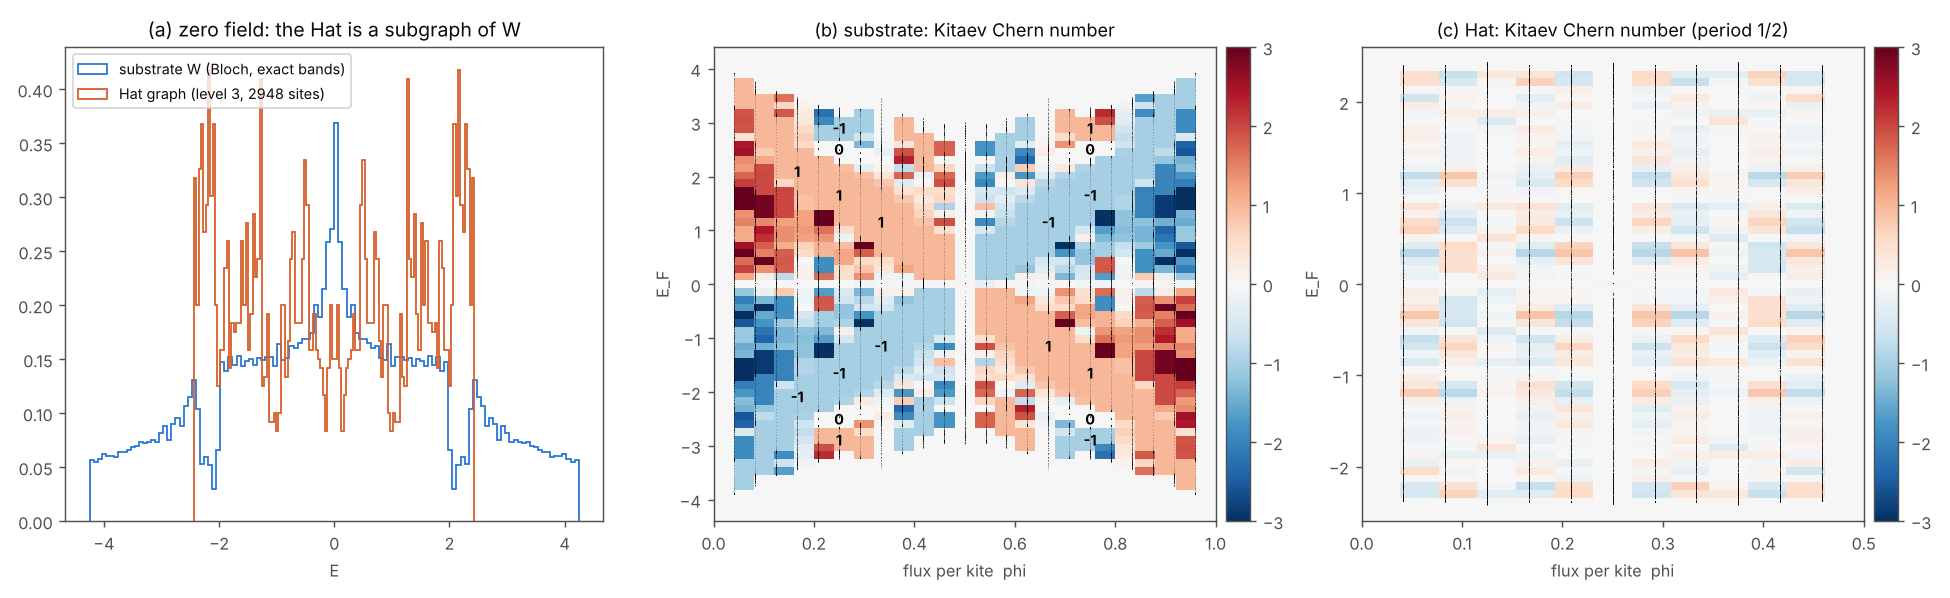
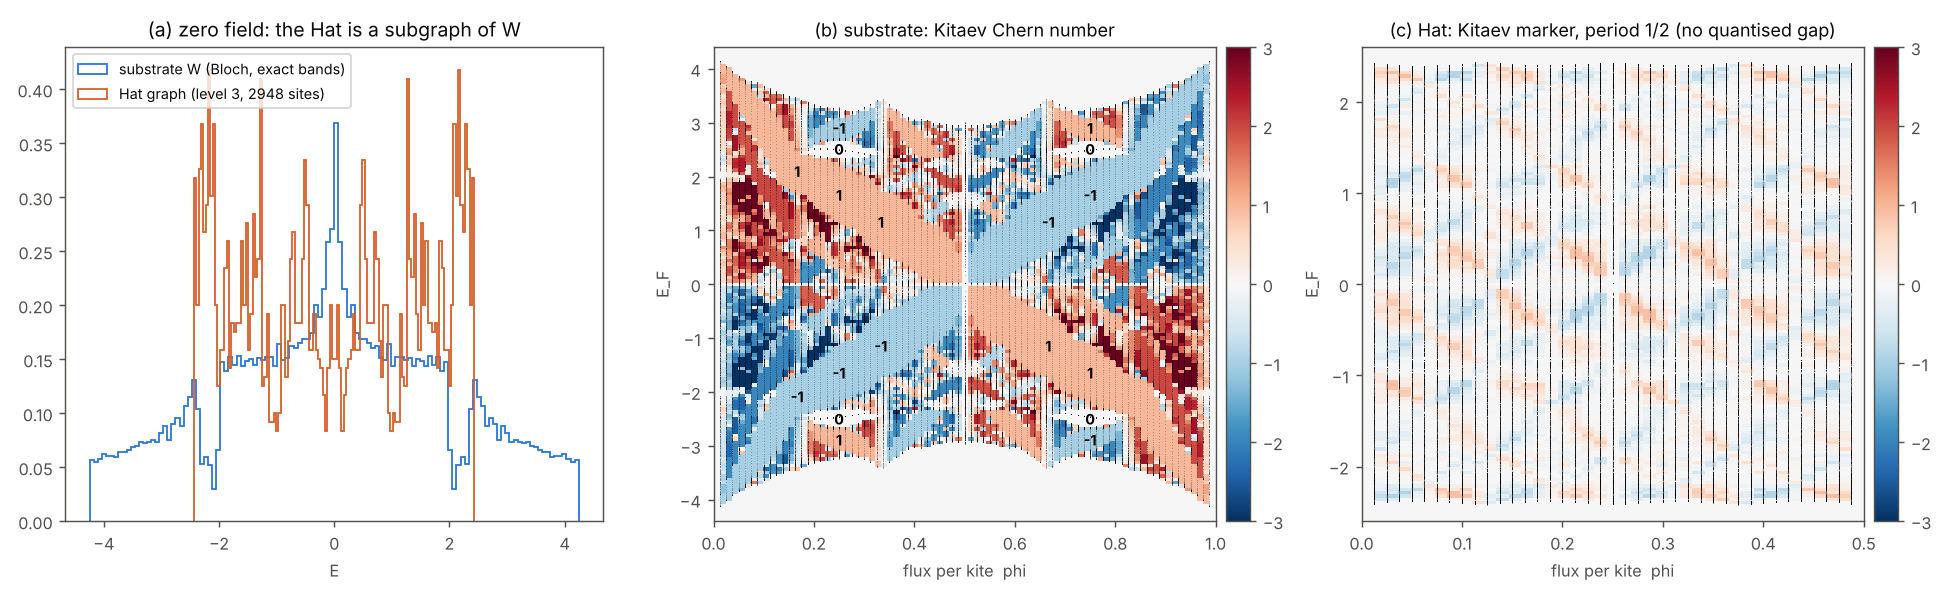
Part X: full-resolution figure; state the Hat marker range precisely
Claude-Session: https://claude.ai/code/session_01WFGFHcjxTzKM5LHgYBrLUh

Changed region(s): [[0.3692, 0.1204, 0.6462, 0.8428], [0.7077, 0.0903, 0.9538, 0.8428], [0.7077, 0.0301, 0.9538, 0.0602]]

diff --git a/AlpogeSixSphere.md b/AlpogeSixSphere.md
@@ -1037,8 +1037,9 @@ narrow for the patch.
 
 **The Hat in a field (measured, one patch).** The same real-space formula is the
 one that applies to the Hat. On the level-3 patch it resolves **no Hofstadter gap
-with a nonzero Chern number**: the marker stays small over the whole
-(φ, `E_F`) grid of panel (c), and the bulk-weighted spectrum shows only the narrow
+with a nonzero Chern number**: over the whole (φ, `E_F`) grid of panel (c)
+(41 × 141 points) the marker forms no integer plateau. Its largest value is 0.93,
+at isolated points inside bands, and the bulk-weighted spectrum shows only the narrow
 Chern-0 dips near `E ≈ ±1` that are already visible at zero field. The substrate
 under it has clean ±1 Chern gaps over wide ranges of flux. Deleting the bonds
 inside tiles (about half of the substrate's bonds; the patch keeps 46%) closes them. This is a
